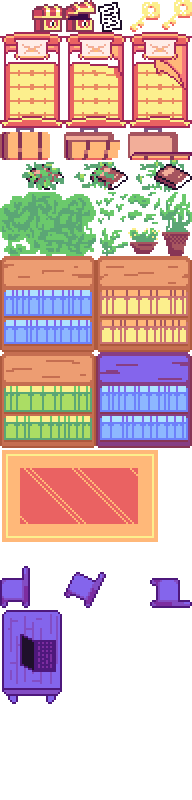
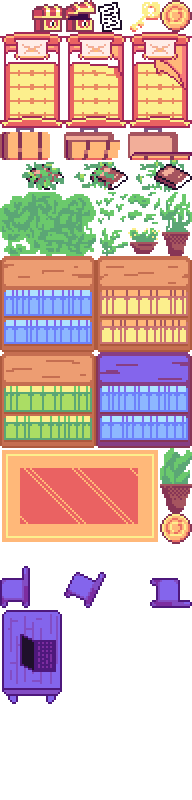
animations added Animations: * loaded for tiles * loaded for items * loaded for player * player changes animation when moving (left/right) (see changeAnimation function in Player) * change animation (no loop) for some items (temporarily for testing), in source/tiles.js
Assets:
* added left walking for ghost
* added coin in items
* changed some names in itemset.json/tileset.json

Changed region(s): [[0.8125, 0.5625, 1.0, 0.6875], [0.8125, 0.0, 1.0, 0.0625]]

diff --git a/source/tile.js b/source/tile.js
@@ -21,7 +21,7 @@ class Tile {
 
         this.sprite = createSprite(this.x, this.y, width*tilewidth, height*tilewidth);
         this.sprite.collider = 'static';
-        if (this.type == "tile"){
+        if (this.type == "tile") {
             this.name = (tile_info[index].split(' '))[0];
             this.has_collissions = ((tile_info[index].split(' '))[3]) == "y" ? true : false;
         } else if (this.type == "item") {
@@ -33,6 +33,11 @@ class Tile {
         this.addCollisions();
         this.addAnimation();
         this.sprite.changeAnimation("first");
+
+        // FOR TESTING (to view some animations) // TODO: remove
+        if (this.name.startsWith("door") || this.name.startsWith("bed") || this.name.startsWith("suitcase") || this.name.startsWith("chest")){
+            this.sprite.changeAnimation("animation");
+        }
     }
 
     /**
@@ -45,7 +50,7 @@ class Tile {
 
     /**
      * Gets image cut at index, based on object dimensions.
-     * @param {number} index 
+     * @param {number} index index used to cut image
      * @returns image
      */
     loadImage(index) {
@@ -110,44 +115,83 @@ class Tile {
      * Add animation frames to item.
      */
     addAnimation() {
+        // Get grame indexes
+        let indexList = this.getAnimationIndexes();
 
-        // Get frames from image assets
-        let frames = {};
-        let index = this.index;
-        let item_title = this.name.substring(0, this.name.length-1);
-        let stop = false;
-
-        while (!stop) {
-
-            // Add frame to list
-            let img = this.loadImage(index);
-            frames[index+1] = img; //index+1 so it corresponds to number in json file
-
-            index = +index + +this.width;
-
-            // Find if there are more frames
-            let item_name;
-            if (this.type == "tile"){
-                if (index >= Object.keys(tile_info).length)        { break; }    // If End Of Array reached
-                if (!(tile_info.hasOwnProperty(index.toString()))) { continue; } // Must continue to find item if index doesn't exist in json
-                item_name = (tile_info[index].split(' '))[0];
-            } else if (this.type == "item") {
-                if (index >= Object.keys(item_info).length)        { break; }    // If End Of Array reached
-                if (!(item_info.hasOwnProperty(index.toString()))) { continue; } // Must continue to find item if index doesn't exist in json
-                item_name = (item_info[index].split(' '))[0];
-            }
-
-            if (!item_name.startsWith(item_title)) { // There are no more frames
-                stop = true;
-            }
-
+        // Get image for each frame
+        let frames = [];
+        for (let i=0; i<indexList.length; i++){
+            frames[i] = this.loadImage(indexList[i]);
         }
-        // if (!item_title.startsWith("blan") && !item_title.startsWith("floor") && !item_title.startsWith("wall")){
-        //     console.log("frames : ", frames); // TODO: remove
-        // }
-        // this.sprite.addImage("last", frames[0], tilewidth); //FIXME
 
-        // Load animation
-        // this.sprite.addAnimation("animate", frames[0], frames[1], frames[2]); // FIXME
+        // Add animation
+        switch(frames.length) {
+            case 3:
+                this.sprite.addAnimation("animation", 
+                    frames[0], frames[1], frames[2]).noLoop();
+                break;
+            case 2:
+                this.sprite.addAnimation("animation", 
+                    frames[0], frames[1]).noLoop();
+                break;
+            case 1:
+                break;
+            default:
+                console.log("[ERROR] Item \"",this.name,"\" has too many frames.");
+        }
     }
+
+    /**
+     * Find indexes for each of the animation frames of item.
+     * The indexes correspond to codes in corresponing .json file (tileset.json | itemset.json).
+     * @returns array with frame indexes
+     */
+    getAnimationIndexes() {
+        let indexList = [];
+        let index = this.index + 1;
+        let i = 0;
+
+        while (true) {
+            indexList[i] = index-1;
+
+            if (this.name.startsWith("wall")) {
+                break; // walls dont have animation
+            }
+            
+            let next; // next index to check
+            if (this.name.startsWith("door")) { // door frames are not placed next to each other
+                index = +index + ((+tileset_row_blocks) * 2);
+                next = +index + ((+tileset_row_blocks) * 2);
+            } else {
+                index = +index + +this.width;
+                next = +index + +this.width;
+            }
+
+            if (this.type == "tile") {
+                if (!tile_info.hasOwnProperty(next.toString())) { // key doesn't exit in tileset.json
+                    indexList[i+1] = index-1;
+                    break;
+                }
+                let next_item = (tile_info[next].split(' '))[0].slice(0, -1); // name of next item without number at end
+                if (!this.name.startsWith(next_item)) { // this is the last frame 
+                    indexList[i+1] = index-1;
+                    break;
+                }
+            } else if (this.type == "item") {
+                if (!item_info.hasOwnProperty(next.toString())) { // key doesn't exit in itemset.json
+                    indexList[i+1] = index-1;
+                    break;
+                }
+                let next_item = (item_info[next].split(' '))[0].slice(0, -1); // name of next item without number at end
+                if (!this.name.startsWith(next_item)) { // this is the last frame
+                    indexList[i+1] = index-1;
+                    break;
+                }
+            }
+            i++;
+        }
+
+        return indexList;
+    }
+
 }

diff --git a/source/player.js b/source/player.js
@@ -10,7 +10,8 @@ class Player {
     this.sprite = createSprite(this.x, this.y, 2 * tilewidth, 2 * tilewidth);
     this.sprite.collider = 'static';
     this.coins=0;
-
+    this.addAnimation();
+    this.changeAnimation("walking_right");
   }
 
   update() {
@@ -24,10 +25,12 @@ class Player {
     }
     if (kb.pressing(LEFT_ARROW)) {
       this.sprite.position.x -= this.speed;
+      this.changeAnimation("walking_left");
       // this.shadow.position.x-= this.speed;
     }
     if (kb.pressing(RIGHT_ARROW)) {
       this.sprite.position.x += this.speed;
+      this.changeAnimation("walking_right");
       // this.shadow.position.x += this.speed;
     }
     if (this.sprite.overlap(gameMap.coins, this.getCoins)) {
@@ -40,21 +43,80 @@ class Player {
       coin.remove();
     }
   draw() {
-    console.log("sprite x meta einai ")
-    console.log(this.sprite.position.x);
-    console.log("sprite y meta einai ")
-    console.log(this.sprite.position.y);
+    // console.log("sprite x meta einai ")
+    // console.log(this.sprite.position.x);
+    // console.log("sprite y meta einai ")
+    // console.log(this.sprite.position.y);
     // this.shadow.draw();
-    this.addImage();
     this.sprite.draw()
   }
 
-  addImage() {
-    let img, x1, y1;
-    x1 = this.index % playerset_row_blocks;
-    y1 = Math.trunc(this.index / playerset_row_blocks);
-    img = playerset.get(x1 * spritewidth, y1 * spritewidth, spritewidth * this.width, spritewidth * this.height);
-    this.sprite.addImage(img, tilewidth);
+  /**
+   * Change player animation.
+   * @param {String} animation animation to use (walking_right | walking_left | pray | praying)
+   */
+  changeAnimation(animation) {
+    let valid_values = ["walking_right", "walking_left", "pray", "praying"];
+    if (valid_values.includes(animation)) {
+        this.sprite.changeAnimation(animation);
+        console.log("[SUCCESS] Player animation changed to:", animation);
+    } else {
+        console.log("[ERROR] Invalid value given for player animation:", animation);
+    }
   }
 
+  /**
+   * Add animation frames to item.
+   * Animations added: walking_right, walking_left, pray, praying
+   */
+  addAnimation() {
+    // Get grame indexes
+    let indexList = this.getAnimationIndexes();
+
+    // Get image for each frame
+    let frames = [[],[],[],[]];
+    for (let i=0; i<indexList.length; i++){     // loop animation type (walking, pray, praying)
+      for (let j=0; j<indexList[i].length; j++){   // loop animation frames
+        frames[i][j] = this.loadImage(indexList[i][j]);
+      }
+    }
+
+    // Add animation
+    this.sprite.addAnimation("walking_right", 
+        frames[0][0], frames[0][1], frames[0][2]);
+    this.sprite.addAnimation("walking_left", 
+        frames[1][0], frames[1][1], frames[1][2]);
+    this.sprite.addAnimation("pray", 
+        frames[2][0], frames[2][1], frames[2][2]);
+    this.sprite.addAnimation("praying", 
+        frames[3][0], frames[3][1], frames[3][2]);
+  }
+
+  /**
+   * Gets image cut at index, based on object dimensions.
+   * @param {number} index index used to cut image
+   * @returns image
+   */
+  loadImage(index) {
+    let x, y, img;
+    x = index % playerset_row_blocks;
+    y = Math.trunc(index / playerset_row_blocks);
+    img = playerset.get(x * spritewidth, y * spritewidth, spritewidth * this.width, spritewidth * this.height);
+    return img;
+}
+
+  /**
+   * Get indexes for animation: walking_right, walking_left, pray, praying
+   * @returns array with frame indexes (2d array, each item in array includes array with frame indexes)
+   */
+  getAnimationIndexes() {
+      let indexList = [
+        [0, 2, 4 ], // walking_right
+        [12,14,16], // walking_left
+        [24,26,28], // pray
+        [37,39,41]  // praying
+      ];
+
+      return indexList;
+  }
 }
